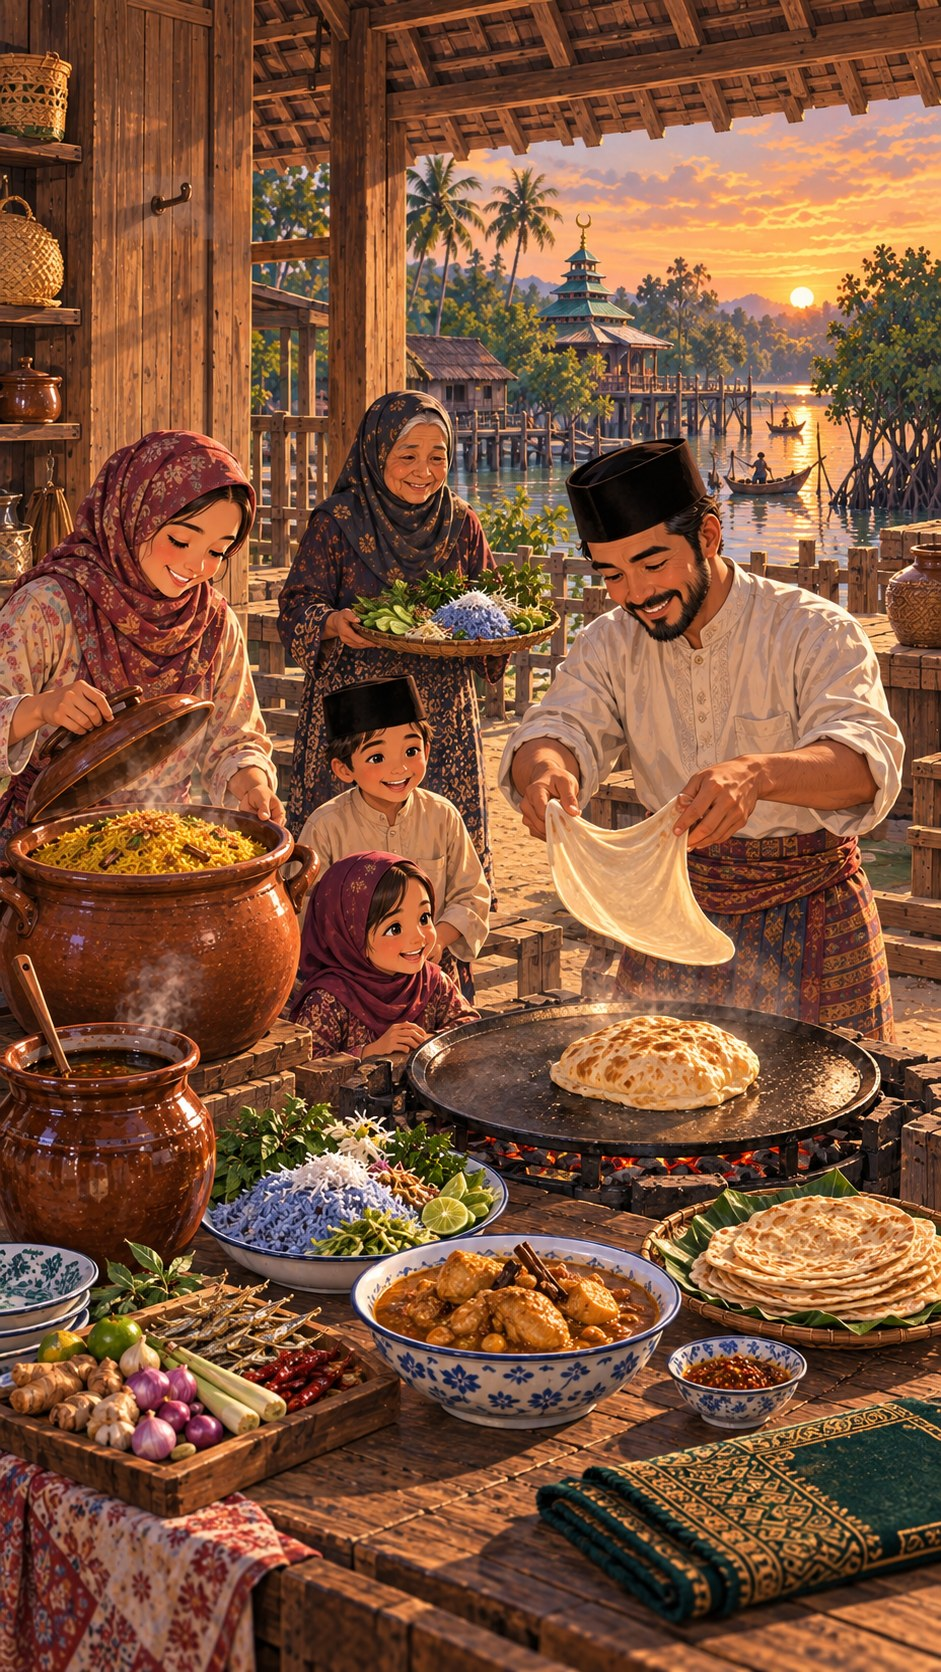
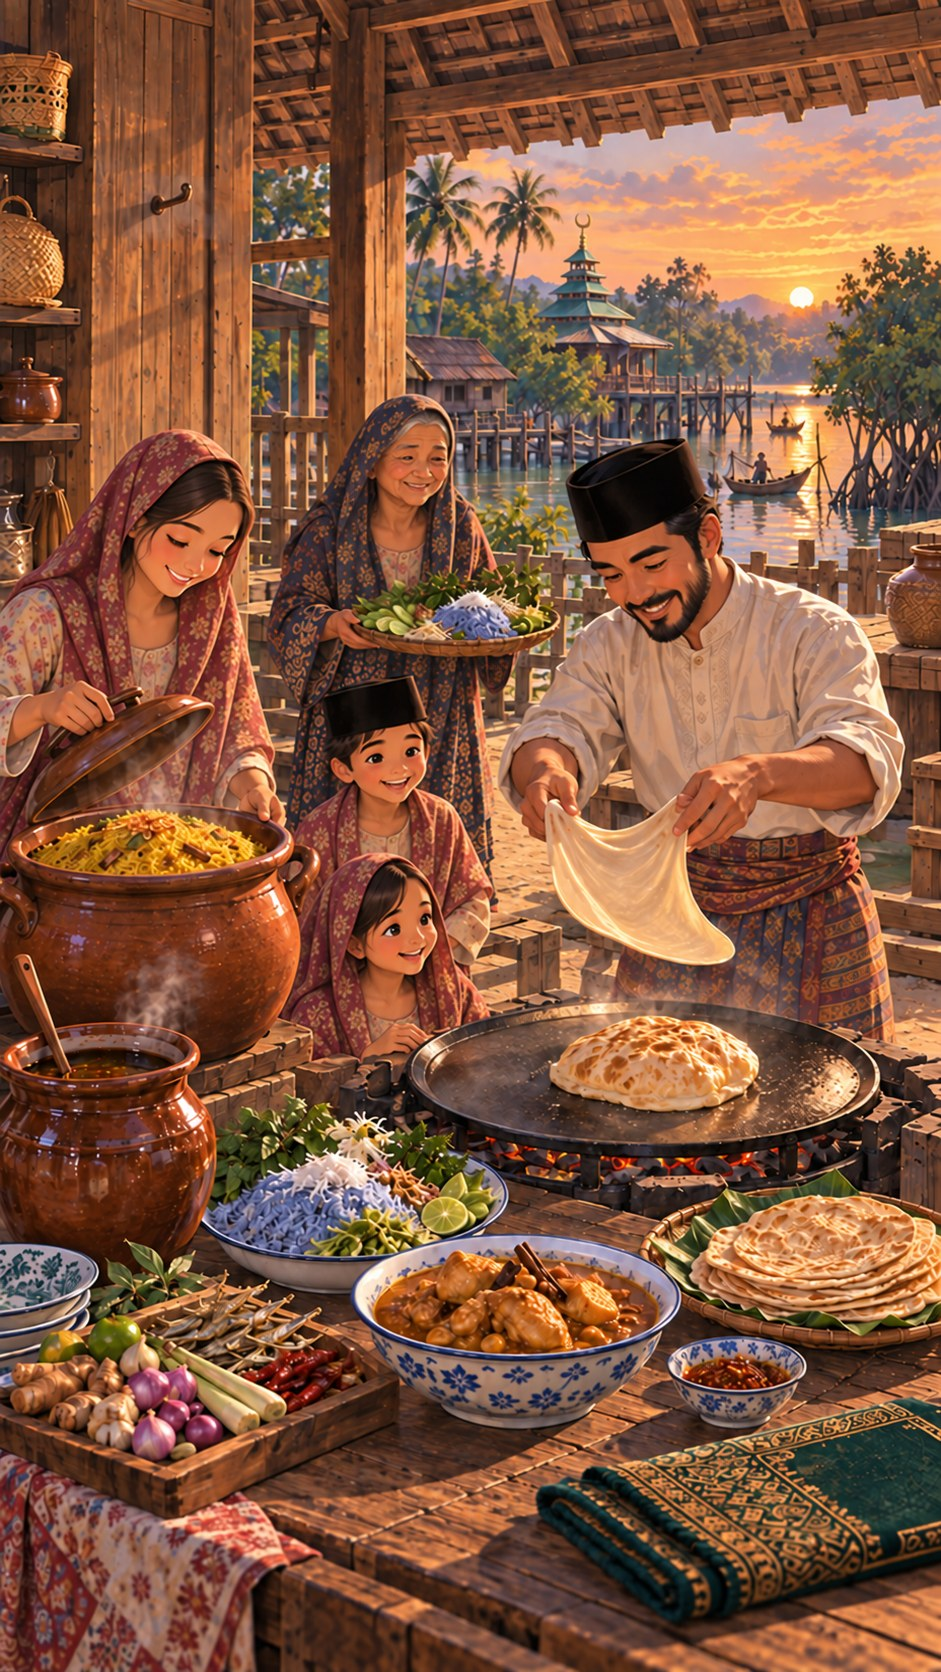
Thailand: Malay kitchen pair regenerated with the selendang, accepted

diff --git a/docs/thailand-world.md b/docs/thailand-world.md
@@ -287,8 +287,8 @@ All 43 files arrived in `~/Downloads/additional game asset/thailand/` with the e
 | `th09_lanna_portrait.png` | Accepted | Ladle pour with lip, stream and landing in the bowl; empty hook at about x .90, inside the band |
 | `th10_andaman_wide.png` | Accepted | Turmeric fish on the green-stick grill, open `kaeng som`, drying squid dry; the second line between the poles is completely empty against plain sky; boats are plain hulls with furled sails, no engine and no long tail; nobody in the sea |
 | `th10_andaman_portrait.png` | Accepted | Same three subjects; the painted squid line runs out to the left edge, so a marker belongs on the squid at about x .2 rather than on the end of the line |
-| `th11_muslim_wide.png` | Accepted | Roti thrown thin between two correct hands over the open plate, `khao mok` pot open with the lid resting against it, `budu` jar with its ladle and no steam, `nasi kerabu` cold; empty wooden peg on plain planking; mosque roof tiered and pyramidal; no pork |
-| `th11_muslim_portrait.png` | Accepted | Same three subjects, peg empty at about x .16 |
+| `th11_muslim_wide.png` | **Accepted (regenerated 2026-09-21)** | The headscarf is now the `selendang` the brief asked for: all three women wear it draped loosely over the hair, with the front hair and the neck visible, checked at full resolution. Everything else is unchanged and still passes — roti thrown thin and translucent between two correct hands over the open plate with a second one puffing on the steel plate, `khao mok` pot open with the lid resting against it, `budu` jar with its ladle and no steam, `nasi kerabu` and the massaman bowl cold; empty iron peg on plain planking at about x .96, the same place as before; mosque roof tiered and pyramidal; no pork, no text, nothing modern |
+| `th11_muslim_portrait.png` | **Accepted (regenerated 2026-09-21)** | Same `selendang` on all three women, hair and neck visible; same three subjects as before, peg empty on plain planking at about x .17. The steam by the `budu` jar comes off the open `khao mok` pot behind it, as it did in the accepted version; the folded prayer mat at bottom right carries geometric ornament and no script |
 | `th12_baba_wide.png` | Accepted | Open clay pot of `moo hong`, tiffin tier lifted clear of the stack with both hands, `o-tao` on the flat iron plate; porcelain and young mango cold; empty iron hook under the airwell beam against plain pale plaster; tin sluice and spoil heap on the hill |
 | `th12_baba_portrait.png` | Accepted | Airwell shaft clean, hook empty on the beam at mid-width, three subjects stacked and readable |
 | 6 sprites | Accepted | One object each on opaque white, clean edges, no ground plane; the lantern is unlit and carries its wire loop, the `sai ua` its S-hook, the squid line both twine ends, the `pla tapian` its thread |
@@ -333,7 +333,7 @@ Card art lands at `public/scenes/thailand-food/{khlong, noodleboat, wang, curry,
 
 Both files are tests and neither is this role's to edit, so neither was touched. What was verified instead: all 24 imported JPGs decode at the right orientation and size and are shown side by side as one contact sheet, and `scenes-props.json` carries a `wide` and a `portrait` size for every one of the twelve rooms, which is the Stage B check the playbook asks for.
 
-**Owner rulings, 2026-09-21.** `th05_sweets_portrait.png` is regenerated to remove the piped plumbing. The lantern sprite's gold `壽` roundel is accepted as period ornament on a Chinese lantern, not lettering. `th-garlic-string`'s 342 px short side is accepted: the long side is full at 960 px and it hangs fine small on a rail. The `th11` headscarf question is left to the owner as an optional regeneration, not required. The floating market keeps its room and drops `open: "reveal"`; its four stall children stay ordinary clickable siblings rather than a reveal, because `src/fw/main.ts`'s `openObject` checks `obj.scene` before `p.obj.open === "reveal"` (lines 666–667) and returns on the scene branch first, so the reveal would never run.
+**Owner rulings, 2026-09-21.** `th05_sweets_portrait.png` is regenerated to remove the piped plumbing. The lantern sprite's gold `壽` roundel is accepted as period ornament on a Chinese lantern, not lettering. `th-garlic-string`'s 342 px short side is accepted: the long side is full at 960 px and it hangs fine small on a rail. The `th11` headscarf question was left to the owner as an optional regeneration, not required; the owner took it, and the optional pair came back on 2026-09-21 with the loose `selendang` over the hair and the neck and some hair visible, as in the deep south around 1900. Both new files pass at 1672 x 941 and 941 x 1672 with nothing else changed and no new fault, so they replace the accepted pair and the rows above carry the pass reasons. The floating market keeps its room and drops `open: "reveal"`; its four stall children stay ordinary clickable siblings rather than a reveal, because `src/fw/main.ts`'s `openObject` checks `obj.scene` before `p.obj.open === "reveal"` (lines 666–667) and returns on the scene branch first, so the reveal would never run.
 
 ### Blueprint (fixed): the Southeast Asia table
 
